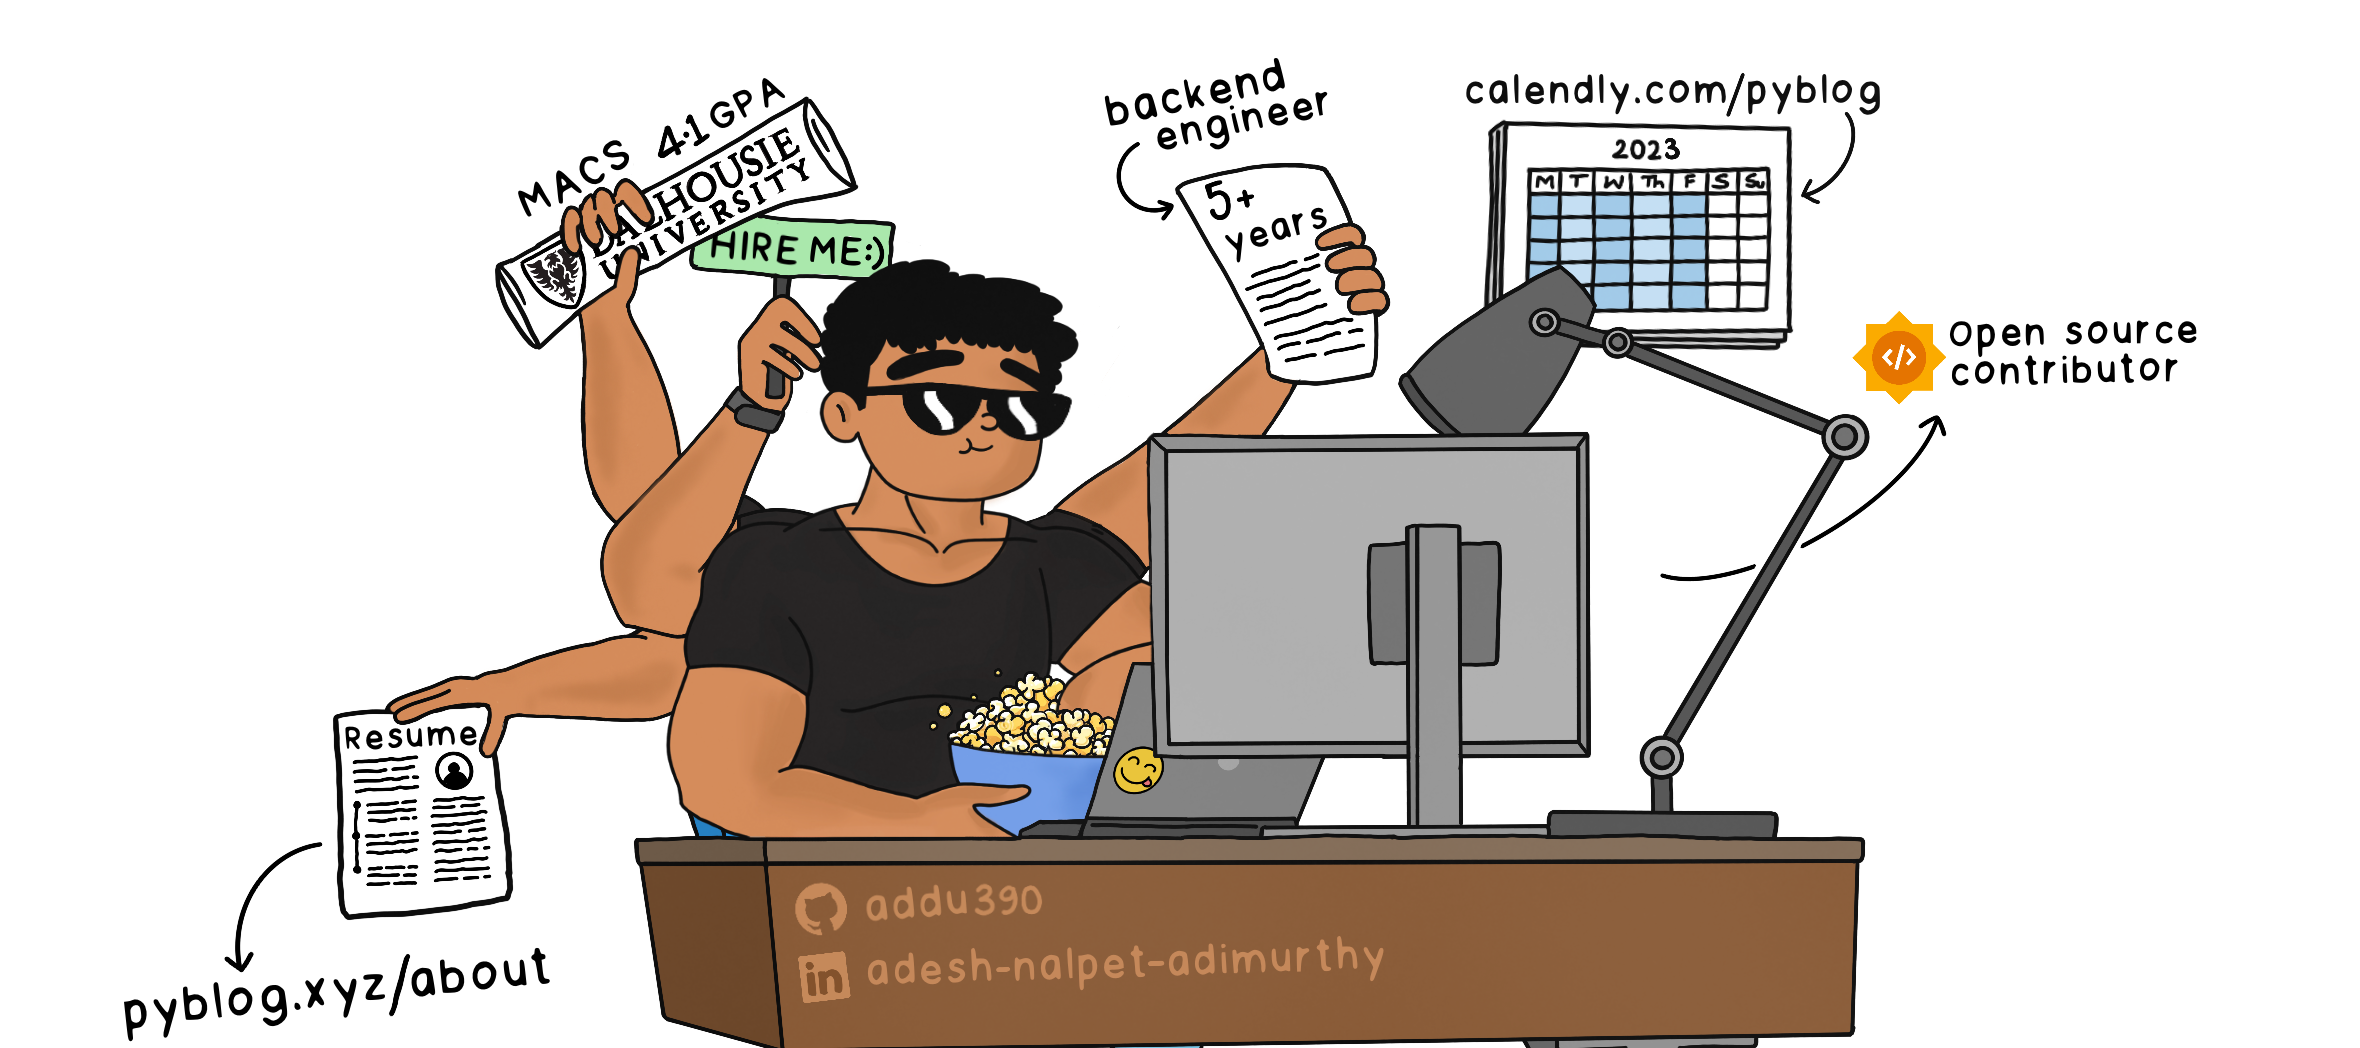
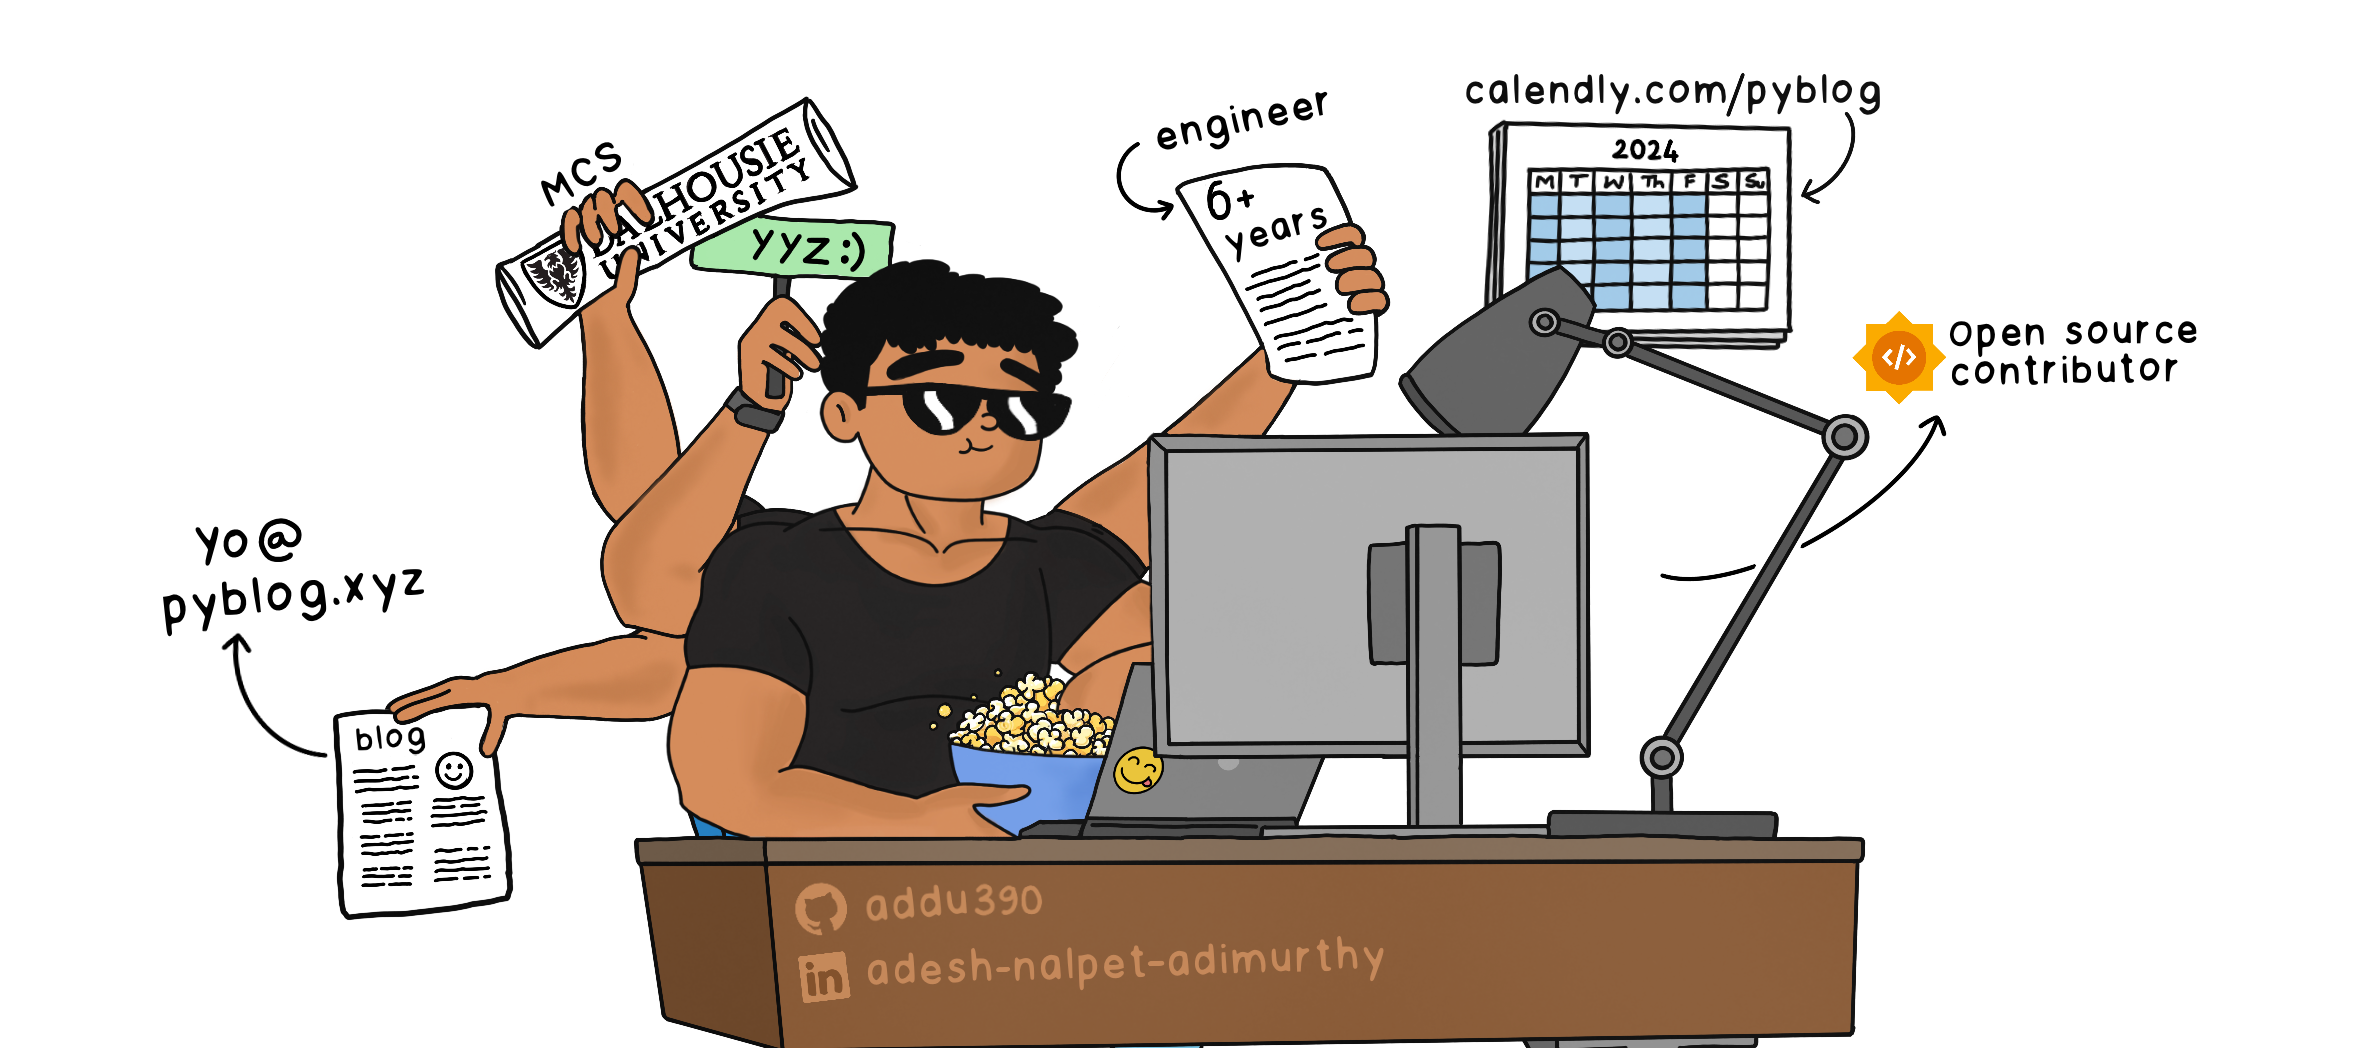
Fix old links on about

diff --git a/_layouts/notes.html b/_layouts/notes.html
@@ -49,7 +49,8 @@ layout: default
                         class="black-a" href="https://sendmemes.today/" target="_blank">@pybloy.xyz</a></span></h3>
             <hr class="post-hr">
             <div class="blog-reference green-disclaimer">
-                <p>Hi there <img class="twemoji" src="../assets/img/emoji/shake.svg"><br/> You've found a hidden path on my blog! If you're here, we probably crossed paths and I shared the link with you. Glad you made it! Enjoy exploring, and feel free to reach out if you'd like.</p>
+                <p>Hi there <img class="twemoji" src="../assets/img/emoji/shake.svg"><br/> You've found a hidden path on my blog! If you're here, we probably crossed paths and I shared the link with you. Glad you made it! Enjoy exploring, and feel free to reach out.</p>
+                <p>Cheers, <br/><a href="mailto:yo@pyblog.xyz">yo@pyblog.xyz</a></p>
             </div>
         </section>
     </div>

diff --git a/_pages/about.md b/_pages/about.md
@@ -7,11 +7,8 @@ permalink: /about/
 <div class="center-align">
 <h1 style="display: inline-block; margin-top: 0px;">Adesh Nalpet Adimurthy</h1><span></span><br>
     <subtitle class="font-weight-bold text-muted">
-        <span style="color: orangered;">
-            <i class="fas fa-map-pin" aria-hidden="true"></i>
-        </span> For Hire &nbsp; &nbsp;
         <span>
-            🇨🇦 Anywhere in Canada
+            🇨🇦 Toronto, Canada
         </span>
         <span> &nbsp; &nbsp;
             <a href="https://calendly.com/pyblog/30min" target="_blank">Schedule time with me</a>
@@ -21,9 +18,10 @@ permalink: /about/
 
 <div><img class="center-image" src="../assets/featured/for-hire.png" /> </div>
 
-### Accomplishments
+<br/>
 
 <hr>
 
-- Shoulder Press 165, Bench Press 235, Squat 315 and Deadlift 405 🏋♀
-- Can Send V6 on a good day 🧗🏽♂
+- <p>Shoulder Press 165, Bench Press 235, Squat 315 and Deadlift 405 🏋♀</p>
+- <p>Can Send V6 on a good day 🧗🏽♂</p>
+- <p>Always ending up in the middle of problems, just to fix them.</p>
